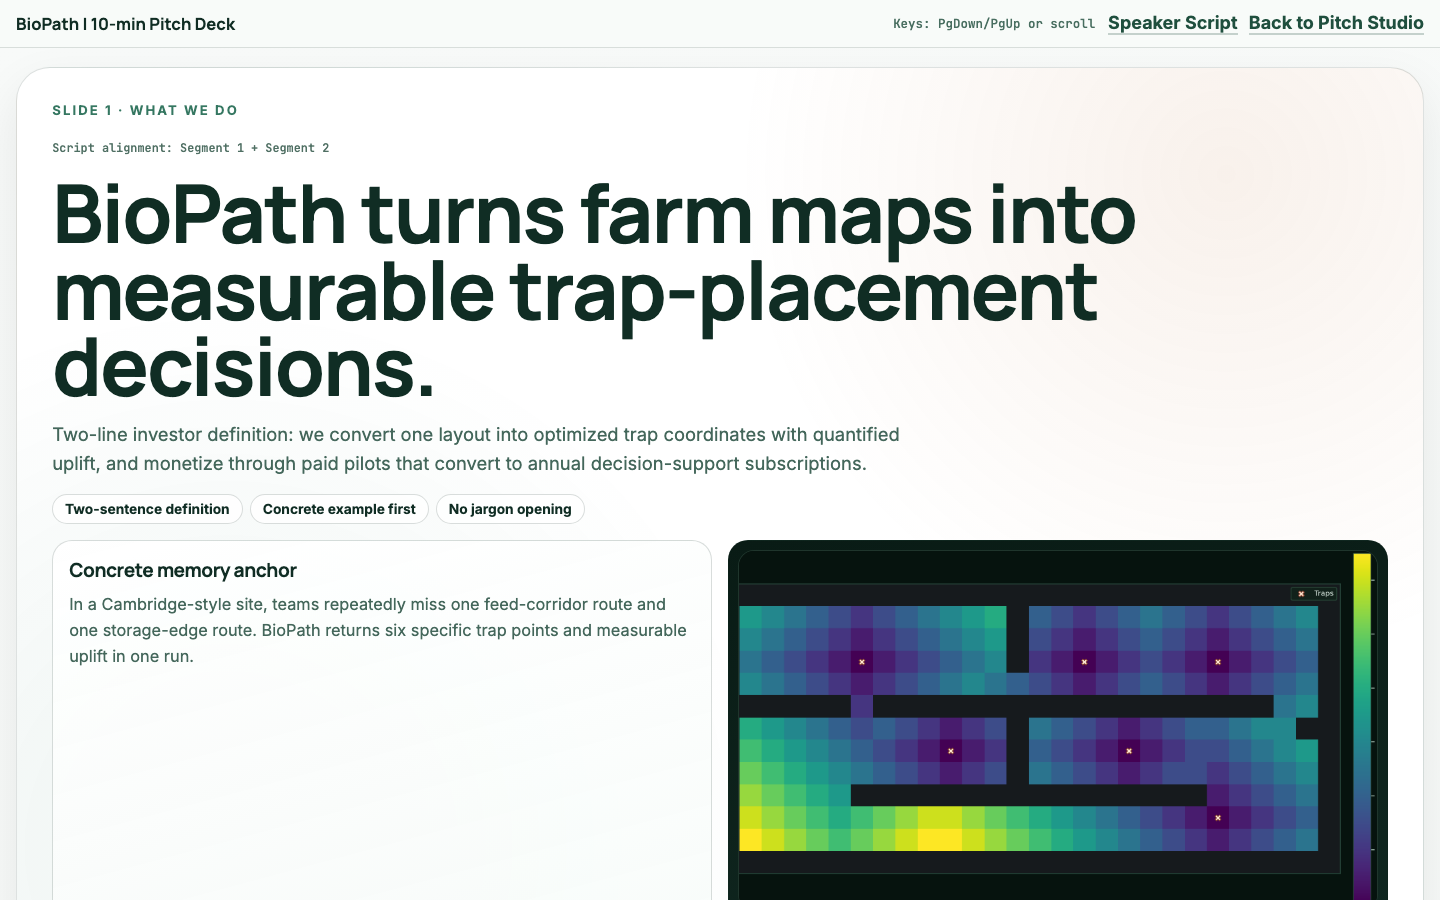
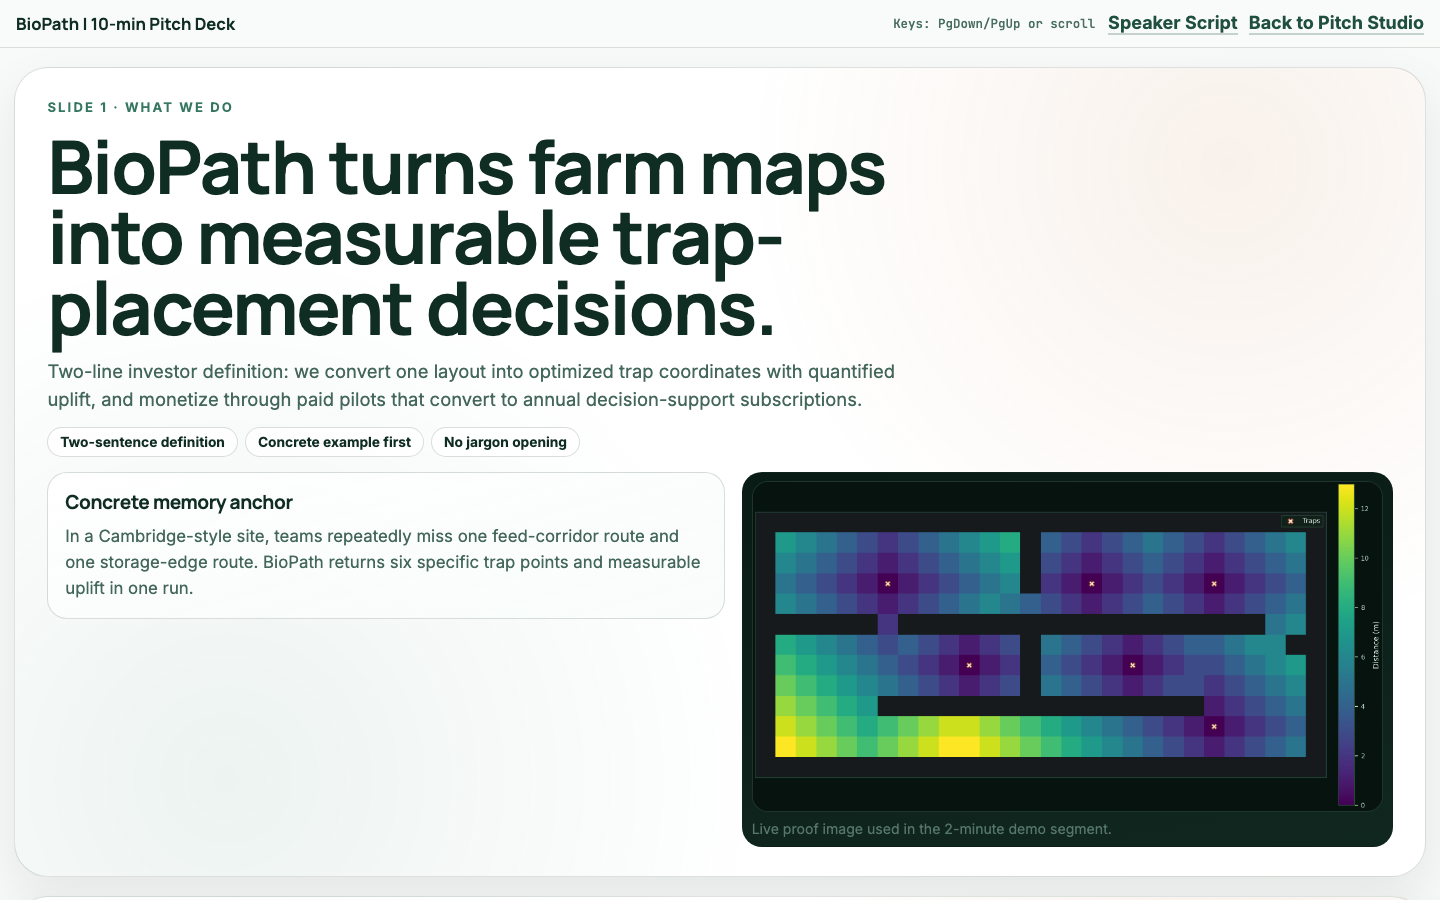
Polish stage-safe UI and align proof contract metrics across studio and deck

diff --git a/site/pitch-deck.html b/site/pitch-deck.html
@@ -56,14 +56,14 @@
       }
 
       .deck {
-        width: min(1460px, calc(100% - 2rem));
+        width: min(1560px, calc(100% - 1.8rem));
         margin: 1.2rem auto 1.6rem;
         display: grid;
         gap: 1.2rem;
       }
 
       .slide {
-        min-height: clamp(560px, 72vh, 760px);
+        min-height: clamp(380px, 48vh, 540px);
         border: 1px solid var(--line);
         border-radius: 34px;
         background:
@@ -71,10 +71,10 @@
           radial-gradient(circle at 15% 88%, rgba(20, 107, 78, 0.08), transparent 38%),
           var(--card);
         box-shadow: 0 20px 50px rgba(11, 30, 23, 0.08);
-        padding: 2rem 2.2rem;
+        padding: 1.8rem 2rem;
         display: flex;
         flex-direction: column;
-        gap: 1rem;
+        gap: 0.88rem;
         scroll-margin-top: 72px;
       }
 
@@ -87,24 +87,17 @@
         font-weight: 700;
       }
 
-      .mapline {
-        margin: 0.18rem 0 0;
-        font-family: "JetBrains Mono", monospace;
-        font-size: 0.74rem;
-        color: #4f6f63;
-      }
-
       h1, h2, h3 {
         margin: 0;
         font-family: "Manrope", sans-serif;
         letter-spacing: -0.02em;
       }
 
-      h1 { font-size: clamp(2.7rem, 5.6vw, 5.2rem); line-height: 0.95; max-width: none; }
-      h2 { font-size: clamp(1.9rem, 3.9vw, 3.4rem); line-height: 1.01; max-width: 16ch; }
+      h1 { font-size: clamp(2.55rem, 5.1vw, 4.7rem); line-height: 0.96; max-width: 18ch; }
+      h2 { font-size: clamp(1.85rem, 3.6vw, 3.05rem); line-height: 1.04; max-width: 20ch; }
       h3 { font-size: 1.2rem; }
 
-      p { margin: 0; color: var(--soft); line-height: 1.58; font-size: 1.02rem; }
+      p { margin: 0; color: var(--soft); line-height: 1.54; font-size: 1.05rem; }
 
       .two-line { max-width: 74ch; font-size: 1.15rem; }
 
@@ -118,13 +111,13 @@
         font-weight: 700;
       }
 
-      .grid2 { display: grid; grid-template-columns: 1fr 1fr; gap: 1rem; align-items: stretch; flex: 1; }
+      .grid2 { display: grid; grid-template-columns: 1.02fr 0.98fr; gap: 1.05rem; align-items: start; }
       .grid3 { display: grid; grid-template-columns: repeat(3, minmax(0, 1fr)); gap: 0.8rem; }
 
       .card {
         border: 1px solid rgba(16, 45, 36, 0.16);
         border-radius: 20px;
-        padding: 1rem;
+        padding: 1.05rem;
         background: linear-gradient(165deg, rgba(255, 255, 255, 0.95), rgba(248, 252, 250, 0.9));
         display: flex;
         flex-direction: column;
@@ -140,8 +133,8 @@
       }
 
       .card li {
-        font-size: 1rem;
-        line-height: 1.46;
+        font-size: 1.03rem;
+        line-height: 1.44;
       }
 
       .metric {
@@ -175,15 +168,8 @@
         border: 1px solid rgba(16, 45, 36, 0.2);
       }
 
-      .grid2 > figure,
-      .grid2 > .dark-frame,
-      .grid2 > .card {
-        height: 100%;
-      }
-
       .grid2 > figure img {
-        height: 100%;
-        min-height: 280px;
+        min-height: 258px;
         object-fit: cover;
       }
 
@@ -204,15 +190,6 @@
         margin-top: 0.5rem;
         font-size: 0.88rem;
         color: #56766a;
-      }
-
-      .cue {
-        margin-top: 0.2rem;
-        border-left: 3px solid rgba(20, 107, 78, 0.5);
-        padding-left: 0.7rem;
-        font-size: 0.98rem;
-        color: #204b3d;
-        font-weight: 700;
       }
 
       .footer {
@@ -243,7 +220,6 @@
     <main class="deck">
       <section class="slide" id="s1">
         <p class="kicker">Slide 1 · What we do</p>
-        <p class="mapline">Script alignment: Segment 1 + Segment 2</p>
         <h1>BioPath turns farm maps into measurable trap-placement decisions.</h1>
         <p class="two-line">
           Two-line investor definition: we convert one layout into optimized trap coordinates with quantified uplift,
@@ -271,7 +247,6 @@
 
       <section class="slide" id="s2">
         <p class="kicker">Slide 2 · Problem + customer</p>
-        <p class="mapline">Script alignment: Segment 2</p>
         <h2>Manual trap placement is inconsistent, hard to audit, and loses performance in complex layouts.</h2>
         <div class="grid2">
           <article class="card">
@@ -295,7 +270,6 @@
 
       <section class="slide" id="s3">
         <p class="kicker">Slide 3 · Product</p>
-        <p class="mapline">Script alignment: Segment 3</p>
         <h2>Source -> model -> solve is transparent and reproducible.</h2>
         <div class="grid2">
           <figure>
@@ -316,7 +290,6 @@
 
       <section class="slide" id="s4">
         <p class="kicker">Slide 4 · Technical edge</p>
-        <p class="mapline">Script alignment: Segment 4</p>
         <h2>Originality is robust optimization under uncertainty, not static rule heuristics.</h2>
         <div class="grid2">
           <article class="card">
@@ -342,7 +315,6 @@
 
       <section class="slide" id="s5">
         <p class="kicker">Slide 5 · Traction velocity</p>
-        <p class="mapline">Script alignment: Segment 6</p>
         <h2>Early traction is execution speed and evidence quality.</h2>
         <div class="grid2">
           <article class="card">
@@ -357,10 +329,10 @@
           <article class="card">
             <h3>Demo proof contract (same k, benchmarked)</h3>
             <div class="grid3" style="margin-top:0.45rem;">
-              <div class="metric"><span>Optimized capture</span><strong>54.3%</strong></div>
+              <div class="metric"><span>Optimized capture</span><strong>48.1%</strong></div>
               <div class="metric"><span>Random baseline</span><strong>30.4%</strong></div>
-              <div class="metric"><span>Uplift</span><strong>+78.8%</strong></div>
-              <div class="metric"><span>Robust capture</span><strong>54.3%</strong></div>
+              <div class="metric"><span>Uplift</span><strong>+58.5%</strong></div>
+              <div class="metric"><span>Robust capture</span><strong>48.1%</strong></div>
               <div class="metric"><span>MC runs</span><strong>N = 140</strong></div>
               <div class="metric"><span>Trap budget</span><strong>k = 6</strong></div>
             </div>
@@ -371,7 +343,6 @@
 
       <section class="slide" id="s6">
         <p class="kicker">Slide 6 · Market + pricing</p>
-        <p class="mapline">Script alignment: Segment 7</p>
         <h2>Bottom-up model: paid pilot -> annual subscription -> portfolio expansion.</h2>
         <div class="grid2">
           <article class="card">
@@ -397,7 +368,6 @@
 
       <section class="slide" id="s7">
         <p class="kicker">Slide 7 · Finance + funding path</p>
-        <p class="mapline">Script alignment: Segment 8</p>
         <h2>Finance is practical: realistic costs, explicit milestones, and fit-for-stage funding.</h2>
         <div class="grid2">
           <article class="card">
@@ -427,7 +397,6 @@
 
       <section class="slide" id="s8">
         <p class="kicker">Slide 8 · Team + explicit ask</p>
-        <p class="mapline">Script alignment: Segment 10</p>
         <h2>Execution trust comes from founder-problem fit and a direct ask tied to outcomes.</h2>
         <div class="grid2">
           <article class="card">

diff --git a/site/app.js b/site/app.js
@@ -418,8 +418,8 @@ async function autoDetectAndConnect({ quiet = false } = {}) {
   }
 
   $("apiBase").value = candidates[0] || "";
-  setConnectionState("safe", "No healthy live API found.");
-  showConnectionBanner("API unreachable", "Use Fix in 1 step or replace API URL, then run Health Check.");
+  setConnectionState("safe", "Live API optional for stage demo.");
+  showConnectionBanner("API unavailable", "Pitch Safe mode is ready. Add API URL only if you want live solve/benchmark.");
   setApiStatus("Auto-detection failed. You can still run Pitch Safe mode.");
   return false;
 }
@@ -498,9 +498,12 @@ function updateHeroProof(result, benchmark = null) {
   if (uplift === null) {
     $("heroUplift").textContent = "Run benchmark to compute uplift";
   } else if (baseline && baseline > 0) {
-    $("heroUplift").textContent = `+${((uplift / baseline) * 100).toFixed(1)}% vs random`;
+    const relPct = typeof benchmark?.uplift_vs_random_pct === "number"
+      ? benchmark.uplift_vs_random_pct
+      : (uplift / baseline) * 100;
+    $("heroUplift").textContent = `+${relPct.toFixed(1)}% vs random`;
   } else {
-    $("heroUplift").textContent = `+${fmt(uplift, 3)} absolute`;
+    $("heroUplift").textContent = `+${(uplift * 100).toFixed(1)} pp`;
   }
 }
 
@@ -544,9 +547,26 @@ function renderProof(result, benchmark = null) {
   const baseline = benchmark && benchmark.baseline && typeof benchmark.baseline.mean === "number"
     ? benchmark.baseline.mean
     : null;
+  const baselineSamples = benchmark?.baseline?.samples;
+  const upliftRelPct = benchmark && typeof benchmark.uplift_vs_random_pct === "number"
+    ? benchmark.uplift_vs_random_pct
+    : (uplift !== null && baseline && baseline > 0 ? (uplift / baseline) * 100 : null);
 
-  $("upliftValue").textContent = uplift === null ? "n/a" : fmt(uplift, 4);
-  $("baselineValue").textContent = baseline === null ? "n/a" : fmt(baseline, 4);
+  if (uplift === null) {
+    $("upliftValue").textContent = "n/a";
+  } else if (upliftRelPct !== null) {
+    $("upliftValue").textContent = `+${upliftRelPct.toFixed(1)}% (${(uplift * 100).toFixed(1)} pp)`;
+  } else {
+    $("upliftValue").textContent = `+${(uplift * 100).toFixed(1)} pp`;
+  }
+
+  if (baseline === null) {
+    $("baselineValue").textContent = "n/a";
+  } else if (typeof baselineSamples === "number") {
+    $("baselineValue").textContent = `${(baseline * 100).toFixed(1)}% (n=${baselineSamples})`;
+  } else {
+    $("baselineValue").textContent = `${(baseline * 100).toFixed(1)}%`;
+  }
   $("benchmarkState").textContent = benchmark ? "Benchmark complete" : "No benchmark yet";
 
   const summaryPath = extractArtifact(result, "summary");
@@ -579,7 +599,9 @@ function renderProof(result, benchmark = null) {
 
 function setPitchNarrative(result, benchmark = null) {
   const trapCount = Array.isArray(result?.traps) ? result.traps.length : Number($("kInput")?.value || 6);
-  const mcRuns = Number($("mcRuns")?.value || 140);
+  const mcRuns = typeof benchmark?.mc_runs === "number"
+    ? benchmark.mc_runs
+    : Number($("mcRuns")?.value || 140);
   const cp = typeof result?.capture_probability === "number" ? `${(result.capture_probability * 100).toFixed(1)}%` : "n/a";
   const rb = typeof result?.robust_score === "number" ? `${(result.robust_score * 100).toFixed(1)}%` : "n/a";
 
@@ -593,7 +615,10 @@ function setPitchNarrative(result, benchmark = null) {
   let proofLine = `With k=${trapCount} traps, optimized capture is ${cp} and robust capture is ${rb}.`;
   if (uplift !== null && baseline && baseline > 0) {
     const baselinePct = `${(baseline * 100).toFixed(1)}%`;
-    const upliftPct = `+${((uplift / baseline) * 100).toFixed(1)}%`;
+    const relPct = typeof benchmark?.uplift_vs_random_pct === "number"
+      ? benchmark.uplift_vs_random_pct
+      : (uplift / baseline) * 100;
+    const upliftPct = `+${relPct.toFixed(1)}%`;
     proofLine = `With k=${trapCount} traps, BioPath achieves capture ${cp} vs random baseline ${baselinePct}, delivering uplift ${upliftPct}. Robust capture is ${rb} (conservative performance across uncertainty scenarios), validated with Monte Carlo N=${mcRuns}.`;
   } else {
     proofLine += ` Run benchmark to add random baseline and uplift. Robust capture means conservative performance across uncertainty scenarios.`;

diff --git a/site/app.css b/site/app.css
@@ -68,7 +68,7 @@ body.ui-pitch-live .connection-banner {
 .connection-banner span { flex: 1; font-size: 0.84rem; }
 
 .topbar {
-  width: min(1280px, calc(100% - 1.4rem));
+  width: min(1520px, calc(100% - 1.4rem));
   margin: 0.9rem auto 0;
   padding: 0.9rem 1.1rem;
   border: 1px solid rgba(255, 255, 255, 0.84);
@@ -128,10 +128,10 @@ body.ui-pitch-live .connection-banner {
 }
 
 .hero-shell {
-  width: min(1280px, calc(100% - 1.4rem));
+  width: min(1520px, calc(100% - 1.4rem));
   margin: 1rem auto 0;
   display: grid;
-  grid-template-columns: minmax(0, 1fr) 360px;
+  grid-template-columns: minmax(0, 1fr) minmax(320px, 380px);
   gap: 1rem;
   align-items: start;
 }
@@ -465,10 +465,10 @@ body.ui-pitch-live .connection-banner {
 }
 
 .main-grid {
-  width: min(1280px, calc(100% - 1.4rem));
+  width: min(1520px, calc(100% - 1.4rem));
   margin: 1rem auto 3rem;
   display: grid;
-  grid-template-columns: minmax(0, 1fr) minmax(0, 1fr);
+  grid-template-columns: minmax(0, 1.08fr) minmax(320px, 0.92fr);
   gap: 1rem;
 }
 
@@ -868,7 +868,7 @@ body.ui-pitch-live .ops-section {
 
 body.ui-pitch-safe .main-grid,
 body.ui-pitch-live .main-grid {
-  grid-template-columns: minmax(0, 1fr) minmax(0, 1fr);
+  grid-template-columns: minmax(0, 1.08fr) minmax(320px, 0.92fr);
 }
 
 body.ui-pitch-safe .panel-proof,
@@ -892,7 +892,7 @@ body.ui-pitch-live .mode-badge {
   100% { box-shadow: 0 0 0 0 rgba(197, 122, 61, 0); }
 }
 
-@media (max-width: 1200px) {
+@media (max-width: 1320px) {
   .hero-shell { grid-template-columns: 1fr; }
   .hero-side { grid-template-columns: 1fr; }
   .main-grid { grid-template-columns: 1fr; }
